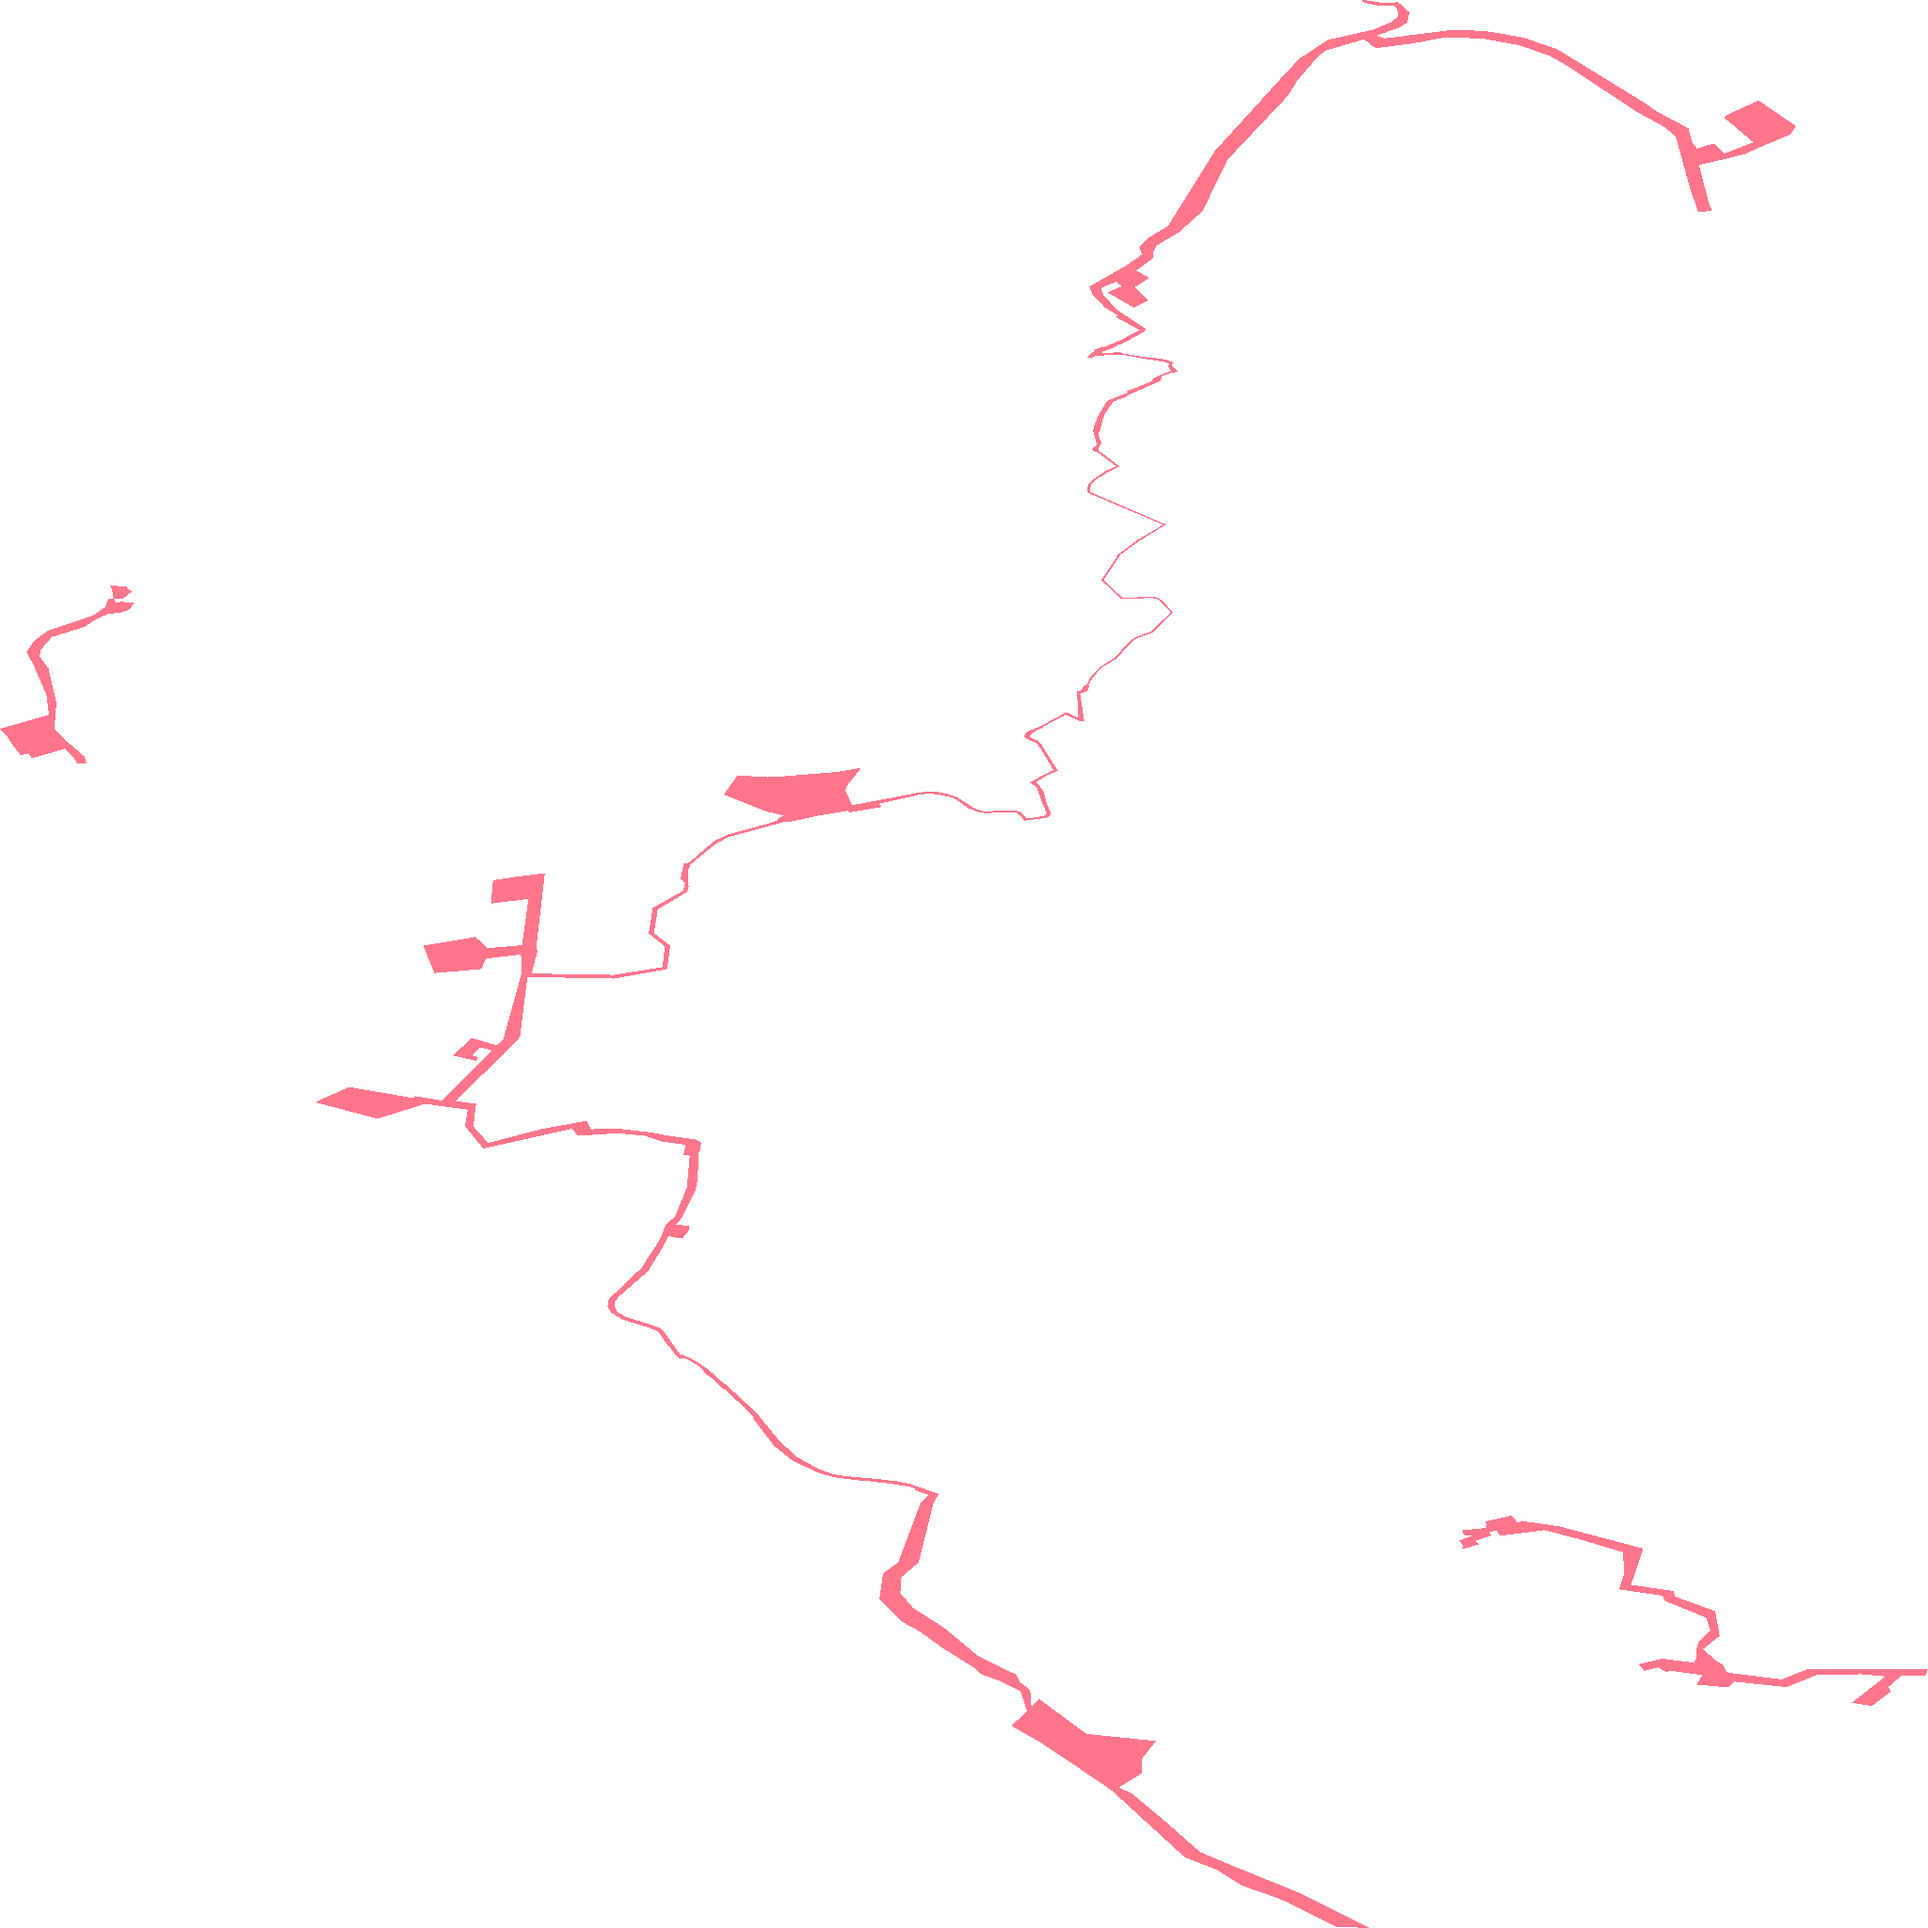
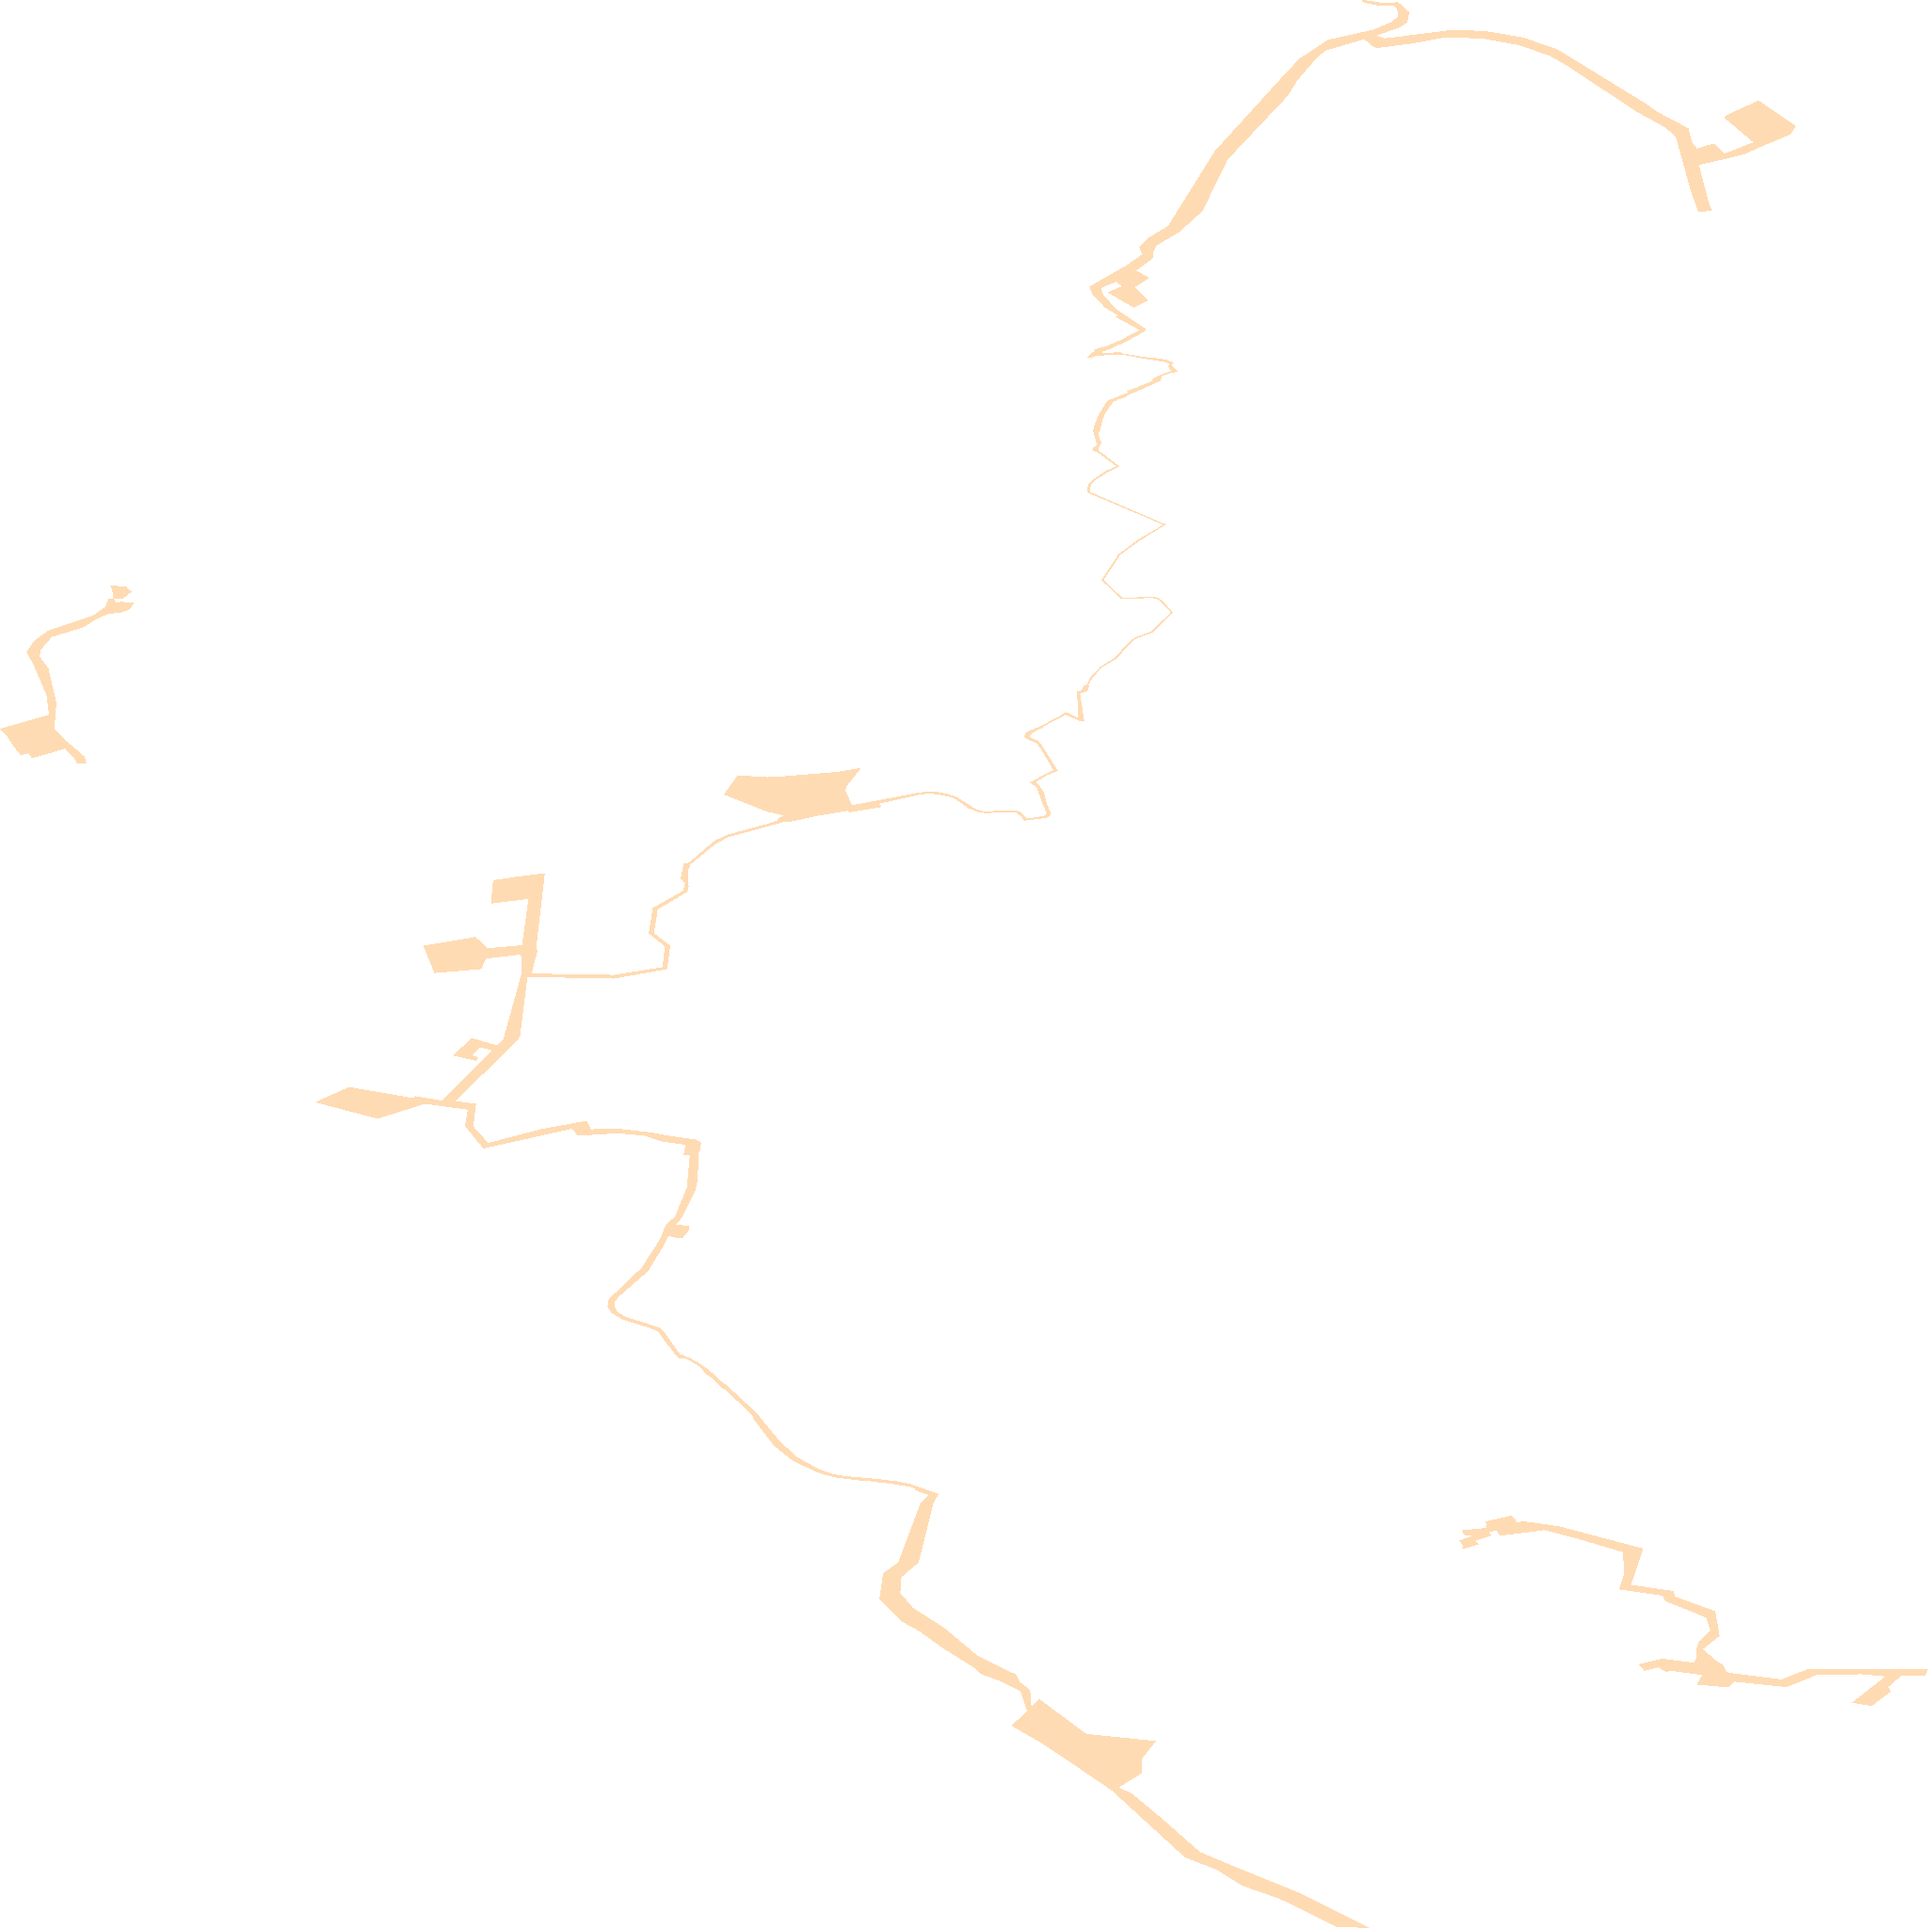
Karte sp_620

diff --git a/sp_620.html b/sp_620.html
@@ -60,7 +60,7 @@
         }
         .custom-control2 {
             position: absolute;
-            bottom: -320px;
+            top: 110px;
             left: 0px;
             background: white;
             padding: 5px;
@@ -77,24 +77,6 @@
         .custom-control:hover, .custom-control2:hover {
             background-color: #f0f0f0 !important;
         }
-        .leaflet-control-geocoder-icon {
-            background-color: white !important;
-            color: grey !important;
-            border: none !important;
-            width: 20px;
-            height: 20px;
-            display: flex;
-            justify-content: center;
-            align-items: center;
-            font-size: 15px;
-            font-family: 'Montserrat', sans-serif;
-            box-shadow: 0 1px 3px rgba(0, 0, 0, 0.3);
-            border-radius: 2px;
-            cursor: pointer;
-        }
-        .leaflet-control-geocoder-icon:hover {
-            background-color: #f0f0f0 !important;
-        }
         .custom-marker {
             width: 15px;
             height: 15px;
@@ -104,8 +86,8 @@
         }
         #legend {
             position: absolute;
-            bottom: 80px;
-            left: 55px;
+            top: 160px;
+            left: 10px;
             display: none;
             z-index: 1000;
             background: white;
@@ -128,8 +110,9 @@
 <body>
     <div id="map"></div>
     <div id="legend">
-        <div><span style="display:inline-block; width:20px; height:10px; background:#FF7F00; margin-right:5px;"></span>Ausbauphase 1: Ausbau bei ausreichender Nachfrage</div>
+        <div><span style="display:inline-block; width:20px; height:10px; background:#FF7F00; margin-right:5px;"></span>Ausbauphase 1: Glasfasernetz vorhanden oder geplant</div>
         <div><span style="display:inline-block;width:20px; height:10px; background:#00143C; margin-right:5px;"></span>Ausbauphase 2: Interessenbekundung möglich</div>
+        <div><span style="display:inline-block;width:20px; height:10px; background:#FFC17D; margin-right:5px;"></span>Ausbauphase 3: Gefördertes Ausbaugebiet </div>
     </div>
     <script>
     const bounds = [[50.394746481, 8.260212403], [50.471186368, 8.32180682]];
@@ -166,20 +149,6 @@
         });
         map.addControl(new legendControl());
         const markerLayerGroup = L.layerGroup().addTo(map);
-        const geocoder = L.Control.geocoder({
-            defaultMarkGeocode: false
-        })
-            .on('markgeocode', function (e) {
-                markerLayerGroup.clearLayers();
-                const latlng = e.geocode.center;
-                const customMarker = L.divIcon({
-                    className: 'custom-marker'
-                });
-                const marker = L.marker(latlng, { icon: customMarker });
-                markerLayerGroup.addLayer(marker);
-                map.fitBounds(bounds);
-            })
-            .addTo(map);
     </script>
 </body>
 </html>
